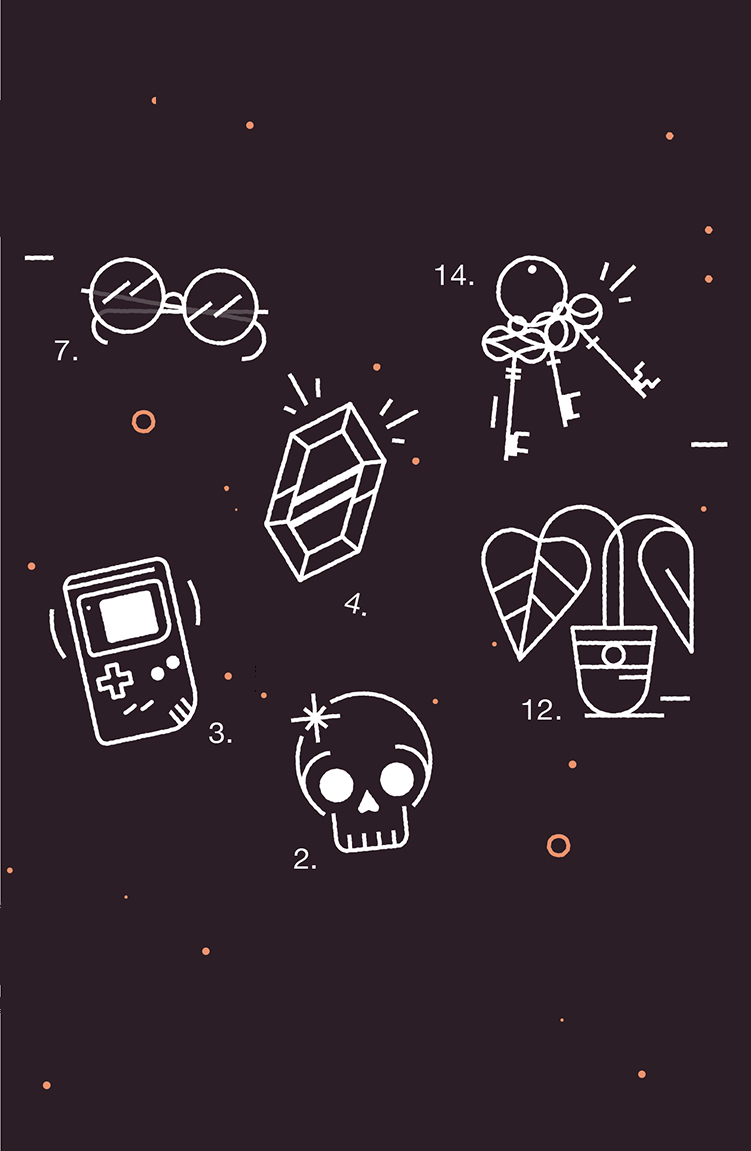
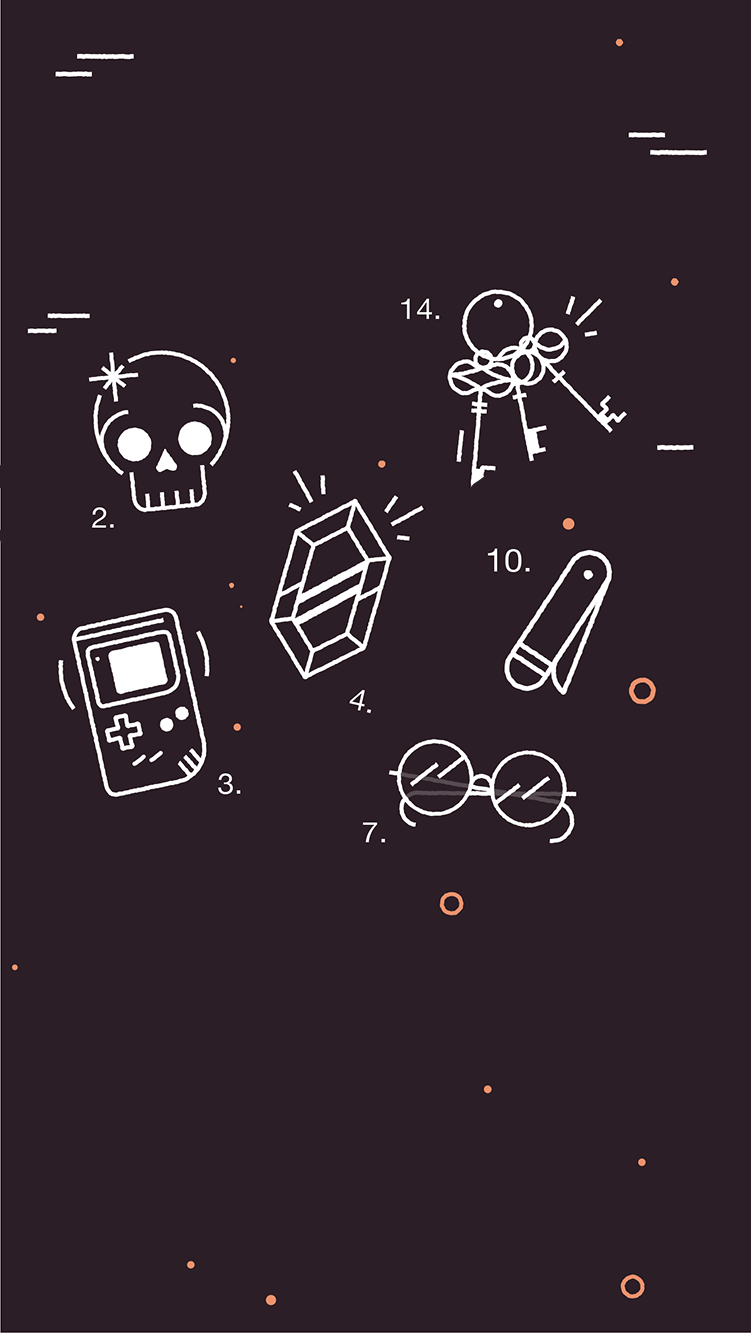
Mobile image bg fix, added Arthur to credits

diff --git a/source/stylesheets/page.css.scss b/source/stylesheets/page.css.scss
@@ -27,6 +27,10 @@ body, html {
  }
 
  #topbar {
+    @media (max-width:767px) {
+      display: none;
+    }
+
    .logo {
      position: fixed;
      right: 20px;
